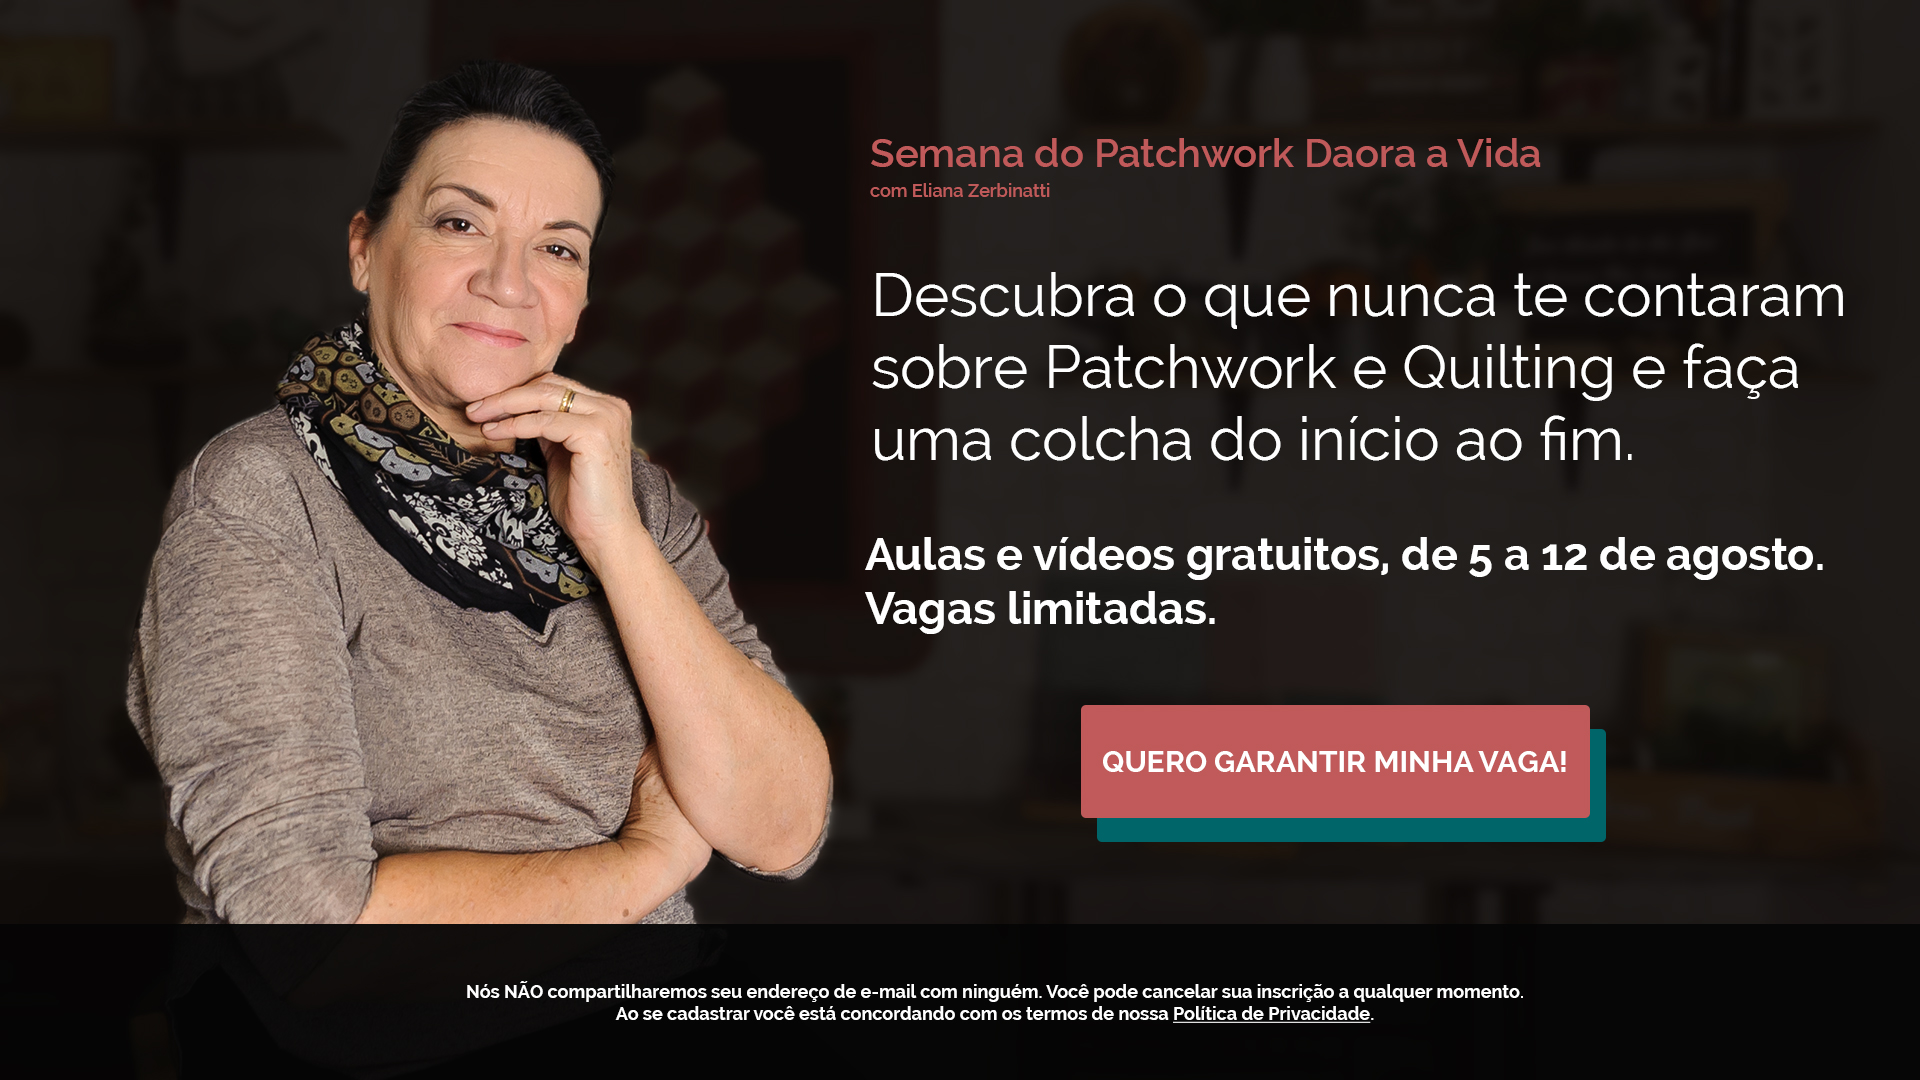
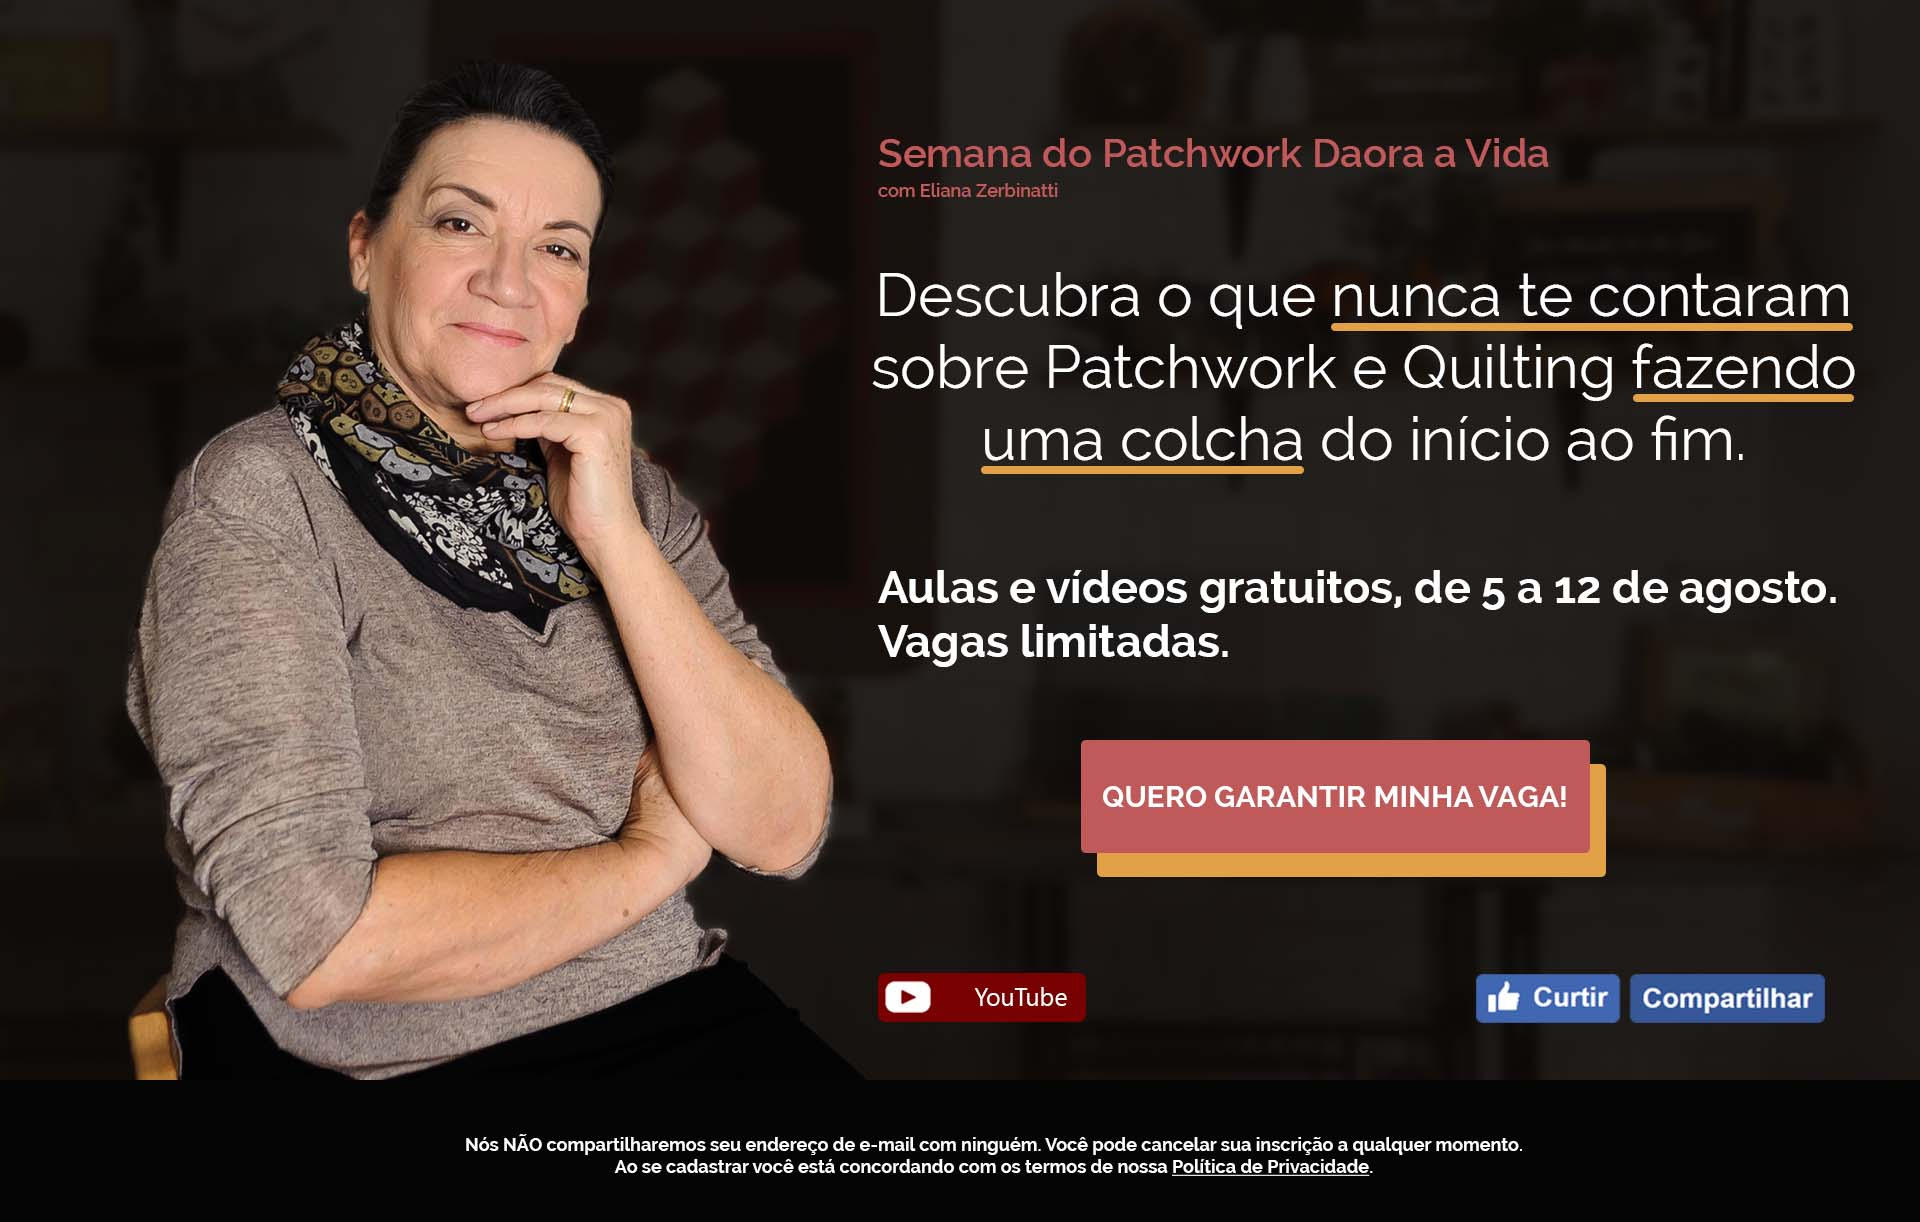
a

diff --git a/belasprendasdolar.com.br/css/dev.css b/belasprendasdolar.com.br/css/dev.css
@@ -1,4 +1,4 @@
-/* Compiled on 2019-07-23 17:23:39 -0300 */
+/* Compiled on 2019-07-23 19:02:11 -0300 */
 /* Frameworks */
 /* Main Style */
 body { margin: 0; padding: 0 !important; }
@@ -22,16 +22,24 @@ section.lp-header.ly-0002, section.lp-header.ly-0002 * { font-size: 16px; }
 @media only screen and (min-width: 1600px) { section.lp-header.ly-0002, section.lp-header.ly-0002 * { font-size: 25px; } }
 @media only screen and (min-width: 1920px) { section.lp-header.ly-0002, section.lp-header.ly-0002 * { font-size: 30px; } }
 section.lp-header.ly-0002 .container { width: 100%; height: 100%; }
-@media only screen and (orientation: landscape) and (min-width: 1024px) { section.lp-header.ly-0002 .container { width: 50vw; position: absolute; right: 0; bottom: 0; height: unset; padding: 0 0 10vh; } }
+@media only screen and (orientation: landscape) and (min-width: 1024px) { section.lp-header.ly-0002 .container { width: 61vw; position: absolute; right: 0; bottom: 0; height: unset; padding: 0 10px 10vh 0; } }
+@media only screen and (orientation: landscape) and (min-width: 1280px) { section.lp-header.ly-0002 .container { width: 61vw; } }
+@media only screen and (min-width: 1360px) { section.lp-header.ly-0002 .container { width: 59vw; } }
+@media only screen and (min-width: 1920px) { section.lp-header.ly-0002 .container { width: 57vw; } }
+section.lp-header.ly-0002 .container > div { margin: 20px 0; }
 section.lp-header.ly-0002 .main-title h1 { margin: 0; font-weight: bold; font-size: 1.563em !important; line-height: 1em !important; }
 section.lp-header.ly-0002 .main-title span { margin: 0; font-weight: bold; font-size: 1.1em !important; line-height: 1em !important; }
-section.lp-header.ly-0002 .conteudo { font-size: 2.441em !important; line-height: 1em !important; }
+section.lp-header.ly-0002 .conteudo { font-size: 2.441em !important; line-height: 1em !important; text-align: left; }
+@media only screen and (min-width: 600px) { section.lp-header.ly-0002 .conteudo { text-align: center; } }
 section.lp-header.ly-0002 .observacao { padding: 0 6vw; font-size: 1.563em !important; line-height: 1em !important; font-weight: bold; }
 @media only screen and (orientation: landscape) and (min-width: 1024px) { section.lp-header.ly-0002 .observacao { padding: 0; } }
 @media only screen and (orientation: landscape) and (min-width: 1024px) { section.lp-header.ly-0002 .observacao { padding: 0; font-size: 1.25em; } }
 section.lp-header.ly-0002 .bt { font-size: 1.563em !important; line-height: 1em !important; }
 @media only screen and (orientation: landscape) and (min-width: 1024px) { section.lp-header.ly-0002 .bt { max-width: 60%; } }
 section.lp-header.ly-0002 .bt .bg, section.lp-header.ly-0002 .bt button { width: calc(100% - 20px); height: calc(100% - 20px); }
+section.lp-header.ly-0002 .prova-social { display: -webkit-box; display: -ms-flexbox; display: flex; -ms-flex-wrap: wrap; flex-wrap: wrap; -webkit-box-pack: center; -ms-flex-pack: center; justify-content: center; -webkit-box-align: center; -ms-flex-align: center; align-items: center; }
+@media only screen and (orientation: landscape) and (min-width: 1024px) { section.lp-header.ly-0002 .prova-social { -webkit-box-pack: justify; -ms-flex-pack: justify; justify-content: space-between; } }
+section.lp-header.ly-0002 .prova-social .g-ytsubscribe, section.lp-header.ly-0002 .prova-social .fb-like { margin: 10px; }
 
 section.lp-footer.ly-0002 { background: linear-gradient(150deg, #0A0A0A 0%, #171717 100%); color: #FBFBFB; padding: 20px 6vw; text-align: center; font-size: 1em; }
 section.lp-footer.ly-0002 span { display: inherit; margin-bottom: 20px; font-size: .85em; }
@@ -187,10 +195,14 @@ div.rodape div.social-icons .icon { color: #444444; font-size: 1.56em; opacity: 
 
 section.ly-0002#lp000002 { color: #FBFBFB; }
 section.ly-0002#lp000002.lp-header { background-color: black; background: #0A0A0A url("https://panoxadrez.github.io/belasprendasdolar.com.br/img/campanhas/lp000002/bg_mobile.jpg") top center no-repeat; background-size: 100% auto; background-repeat: no-repeat; }
+@media only screen and (orientation: landscape) { section.ly-0002#lp000002.lp-header { background: #0A0A0A url("https://panoxadrez.github.io/belasprendasdolar.com.br/img/campanhas/lp000002/bg_desktop.jpg") top left no-repeat; background-size: cover; } }
 section.ly-0002#lp000002.lp-header .main-title * { color: #aa504f !important; }
+section.ly-0002#lp000002.lp-header span.underline { font-size: 1em; }
+@media only screen and (min-width: 600px) { section.ly-0002#lp000002.lp-header span.underline { -webkit-text-decoration: underline #e2a047; text-decoration: underline #e2a047; } }
 section.ly-0002#lp000002.lp-footer { background: linear-gradient(150deg, #0A0A0A 0%, #171717 100%); color: #FBFBFB; }
 section.ly-0002#lp000002 .bt { margin: 0 auto; }
 section.ly-0002#lp000002 .bt button { background: linear-gradient(150deg, #7c3f3e 0%, #8d4847 100%); color: #FBFBFB; font-weight: bold; border-radius: 5px; }
-section.ly-0002#lp000002 .bt .bg { background: linear-gradient(150deg, #e2a047 0%, #e5ab5d 100%); border-radius: 5px; }
+section.ly-0002#lp000002 .bt .bg { background: linear-gradient(150deg, #006569 0%, #007e83 100%); border-radius: 5px; }
+@media only screen and (min-width: 600px) and (orientation: portrait), (orientation: landscape) and (min-width: 1024px) { section.ly-0002#lp000002 .bt .bg { background: linear-gradient(150deg, #e2a047 0%, #e5ab5d 100%); } }
 
-/* Compiled on 2019-07-23 17:23:39 -0300 */
+/* Compiled on 2019-07-23 19:02:11 -0300 */

diff --git a/belasprendasdolar.com.br/scss/v0003/paginas/campanhas/_lp_00002.scss b/belasprendasdolar.com.br/scss/v0003/paginas/campanhas/_lp_00002.scss
@@ -1,32 +1,33 @@
-$lp00002:(
-    id: 'lp000002',
-    id2: '#lp000002',
-    color:(
-        1:#7c3f3e,
-        2: #e2a047,
-        3: #006569
-    ),
-    banner:(
-        desktop: "https://panoxadrez.github.io/belasprendasdolar.com.br/img/campanhas/lp000002/bg_desktop.jpg",
-        mobile: "https://panoxadrez.github.io/belasprendasdolar.com.br/img/campanhas/lp000002/bg_mobile.jpg"
-    )
-);
+$lp00002: (id: "lp000002", id2: "#lp000002", color: (1: #7c3f3e, 2: #e2a047, 3: #006569), banner: (desktop: "https://panoxadrez.github.io/belasprendasdolar.com.br/img/campanhas/lp000002/bg_desktop.jpg", mobile: "https://panoxadrez.github.io/belasprendasdolar.com.br/img/campanhas/lp000002/bg_mobile.jpg"));
 
-
-section.ly-0002#{map($lp00002, 'id2')} {
+section.ly-0002#{map($lp00002, "id2")} {
     color: $c-white;
 
     &.lp-header {
         background-color: black;
-        //background: linear-gradient(rgba(0, 0, 0, 0.45), rgba(0, 0, 0, 0.45)), url(https://panoxadrez.github.io/prendasdolar.com.br/img/cursos/curso00001/banner_home.jpg);
-        //background: degrade-color(black, black), url(https://panoxadrez.github.io/prendasdolar.com.br/img/cursos/curso00001/banner_home.jpg);
         background: $c-black url("#{map($lp00002, 'banner', 'mobile')}") top center no-repeat;
         background-size: 100% auto;
+
+        @include breakpoint-up(landscape) {
+            background: $c-black url("#{map($lp00002, 'banner', 'desktop')}") top left no-repeat;
+            //background-size: auto 100%;
+            background-size: cover;
+        }
+
+
         //background: bg-color bg-image position/bg-size bg-repeat bg-origin bg-clip bg-attachment initial|inherit;
         background-repeat: no-repeat;
 
         .main-title * {
             color: #aa504f !important;
+        }
+
+        span.underline {
+            font-size: 1em;
+
+            @include breakpoint-up(tablet-regular) {
+                text-decoration: underline map($lp00002, "color", 2);
+            }
         }
     }
 
@@ -42,15 +43,17 @@ section.ly-0002#{map($lp00002, 'id2')} {
 
         button {
             //background: degrade-color(#c15a5b);
-            background: degrade-color(map($lp00002, 'color', 1));
+            background: degrade-color(map($lp00002, "color", 1));
             color: $c-white;
             font-weight: bold;
             border-radius: $border-radius;
         }
 
         .bg {
-            background: degrade-color(map($lp00002, 'color', 2));
+            background: degrade-color(map($lp00002, "color", 3));
             border-radius: $border-radius;
+
+            @include breakpoint-up(tablet-regular-portrait, tablet-regular-land){background: degrade-color(map($lp00002, "color", 2));}
         }
     }
 }

diff --git a/belasprendasdolar.com.br/html/campanhas/000001 - mommy/01-header.html b/belasprendasdolar.com.br/html/campanhas/000001 - mommy/01-header.html
@@ -1,6 +1,3 @@
-<script async defer crossorigin="anonymous"
-    src="https://connect.facebook.net/pt_BR/sdk.js#xfbml=1&version=v3.3&appId=1144821965698205&autoLogAppEvents=1">
-</script>
 <section class="lp-header ly-0002" id="lp000002">
     <div id="fb-root"></div>
     <script async defer crossorigin="anonymous"
@@ -13,7 +10,7 @@
         </div>
         <div class="conteudo">
             <p>
-                Descubra o que nunca te contaram sobre Patchwork e Quilting fazendo uma colcha do início ao fim.
+                Descubra o que <span class="underline">te contaram</span> sobre Patchwork e Quilting <span class="underline">fazendo uma colcha</span> do início ao fim.
             </p>
         </div>
         <div class="observacao">
@@ -30,14 +27,12 @@
             </div>
         </div>
         <div class="prova-social">
-                <script src="https://apis.google.com/js/platform.js"></script>
+            <div class="g-ytsubscribe" data-channel="panoxadrez" data-layout="default" data-count="default"></div>
 
-                <div class="g-ytsubscribe" data-channel="panoxadrez" data-layout="default" data-count="default"></div>
-
-            <!-- <div id="fb-root"></div>
-            <div class="fb-like" data-href="https://www.facebook.com/eliana.zerbinatti" data-width="200px"
+            <div id="fb-root"></div>
+            <div class="fb-like" data-href="https://www.facebook.com/eliana.zerbinatti" data-width=""
                 data-layout="button" data-action="like" data-size="small" data-show-faces="false" data-share="true">
-            </div> -->
+            </div>
         </div>
     </div>
 

diff --git a/belasprendasdolar.com.br/scss/v0003/layout/landpage/ly-0002/_header.scss b/belasprendasdolar.com.br/scss/v0003/layout/landpage/ly-0002/_header.scss
@@ -1,4 +1,5 @@
 @warn "teste";
+
 //layout desenvolvido para LeadLovers
 
 section.lp-header.ly-0002 {
@@ -36,12 +37,19 @@ section.lp-header.ly-0002 {
     .container {
         @include size(100%);
         @include breakpoint-up(tablet-regular-land) {
-            width: 50vw;
+            width: 61vw;
             position: absolute;
             right: 0;
             bottom: 0;
             height: unset;
-            padding: 0 0 10vh;
+            padding: 0 10px 10vh 0;
+        }
+        @include breakpoint-up(tablet-large-land) {width: 61vw;}
+        @include breakpoint-up(desktop-small) {width: 59vw;}
+        @include breakpoint-up(desktop-large) {width: 57vw;}
+
+        > div{
+            margin: 20px 0;
         }
     }
 
@@ -63,6 +71,8 @@ section.lp-header.ly-0002 {
 
     .conteudo {
         @include font-size(($size-h2 * 1em) !important, 1em !important);
+        text-align: left;
+        @include breakpoint-up(tablet-regular){text-align: center}
     }
 
     .observacao {
@@ -92,6 +102,23 @@ section.lp-header.ly-0002 {
 
         .bg, button {
             @include size(calc(100% - 20px));
+        }
+    }
+
+    .prova-social {
+        display: flex;
+        flex-wrap: wrap;
+        justify-content: center;
+
+        @include breakpoint-up(tablet-regular-land) {
+            justify-content: space-between;
+        }
+
+
+        align-items: center;
+
+        .g-ytsubscribe, .fb-like {
+            margin: 10px;
         }
     }
 }
